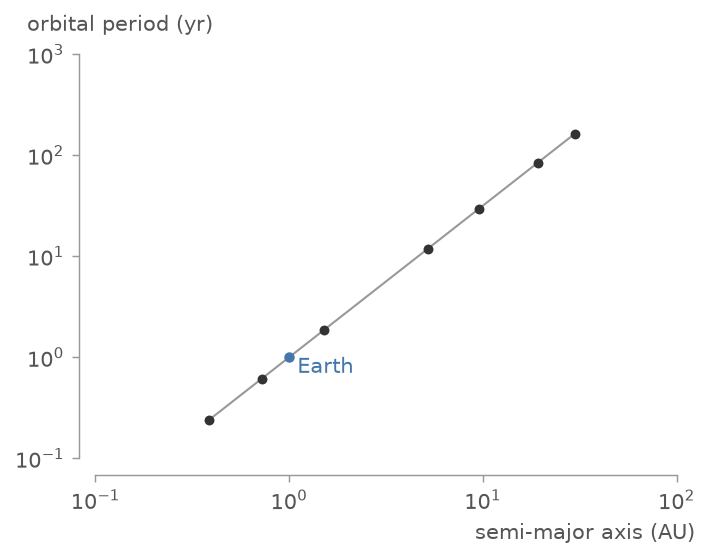
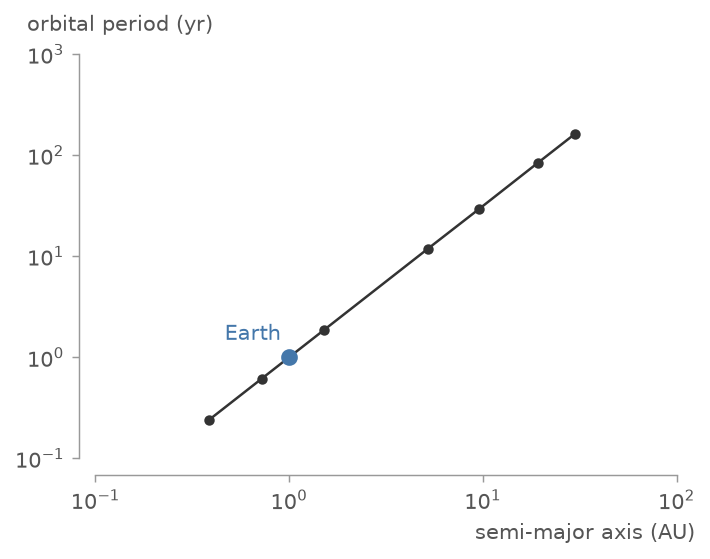
docs(gallery): draw Kepler as a plot inside the vzs style
Join the planets into the line they obey rather than drawing a separate
computed curve over scatter points, and draw inside
`plt.style.context("vanzelfsprekend")` so the line width and mark size
come from the style, not the figure -- the first gallery figure to use
it. Earth stays the highlight: a Tol blue, a larger mark, named in its
colour.

Claude-Session: https://claude.ai/code/session_011Cqf5d5iudAxMQDyUAgWy4

diff --git a/examples/gallery.py b/examples/gallery.py
@@ -143,8 +143,10 @@ def kepler() -> None:
     """Render Kepler's third law on log-log axes, Earth picked out in Tol blue.
 
     Period against semi-major axis for the eight planets; in AU and years
-    the law is T = a**1.5, so the planets fall on the drawn line. Earth
-    alone is coloured, and `label` names it in that same colour.
+    the law is T = a**1.5, so the planets are collinear on log-log axes.
+    Joining them draws the line, Earth alone is coloured, and `label` names
+    it in that colour. Drawn inside the `vanzelfsprekend` style, so the line
+    width and mark size come from there, not from this figure.
     """
     # planets.csv carries a name column, so read it with per-column dtypes
     # rather than the all-numeric `load`; the comment strip is load's.
@@ -158,29 +160,27 @@ def kepler() -> None:
         table["orbital_period_yr"],
         table["name"] == "Earth",
     )
-    fig, ax = plt.subplots(figsize=(5, 3.5))
-    ax.set_xscale("log")
-    ax.set_yscale("log")
-    vzs.apply(ax, frame="loose")
-    # The law itself, T = a**1.5, drawn as the line the planets fall on.
-    span = np.geomspace(axis.min(), axis.max(), 200)
-    ax.plot(span, span**1.5, color=vzs.palettes.LINE_INK, linewidth=1.0, zorder=1)
-    # Every planet in the data ink; Earth alone in a Tol blue, named in it.
-    ax.scatter(
-        axis[~earth], period[~earth], s=14, color=vzs.palettes.DATA_INK, zorder=2
-    )
-    ax.scatter(
-        axis[earth],
-        period[earth],
-        s=16,
-        color="tol:bright.blue",
-        zorder=3,
-        label="Earth",
-    )
-    vzs.xlabel(ax, "semi-major axis (AU)")
-    vzs.ylabel(ax, "orbital period (yr)")
-    vzs.label(ax, "Earth")
-    save(fig, "kepler")
+    with plt.style.context("vanzelfsprekend"):
+        fig, ax = plt.subplots(figsize=(5, 3.5))
+        ax.set_xscale("log")
+        ax.set_yscale("log")
+        # The planets in order of distance, joined into the law they obey.
+        ax.plot(axis, period, marker="o", color=vzs.palettes.DATA_INK)
+        # Earth alone in a Tol blue, a larger mark, named in its colour.
+        ax.plot(
+            axis[earth],
+            period[earth],
+            marker="o",
+            markersize=7,
+            linestyle="none",
+            color="tol:bright.blue",
+            label="Earth",
+        )
+        vzs.apply(ax, frame="loose")
+        vzs.xlabel(ax, "semi-major axis (AU)")
+        vzs.ylabel(ax, "orbital period (yr)")
+        vzs.label(ax, "Earth")
+        save(fig, "kepler")
 
 
 def waiting_times() -> None:
